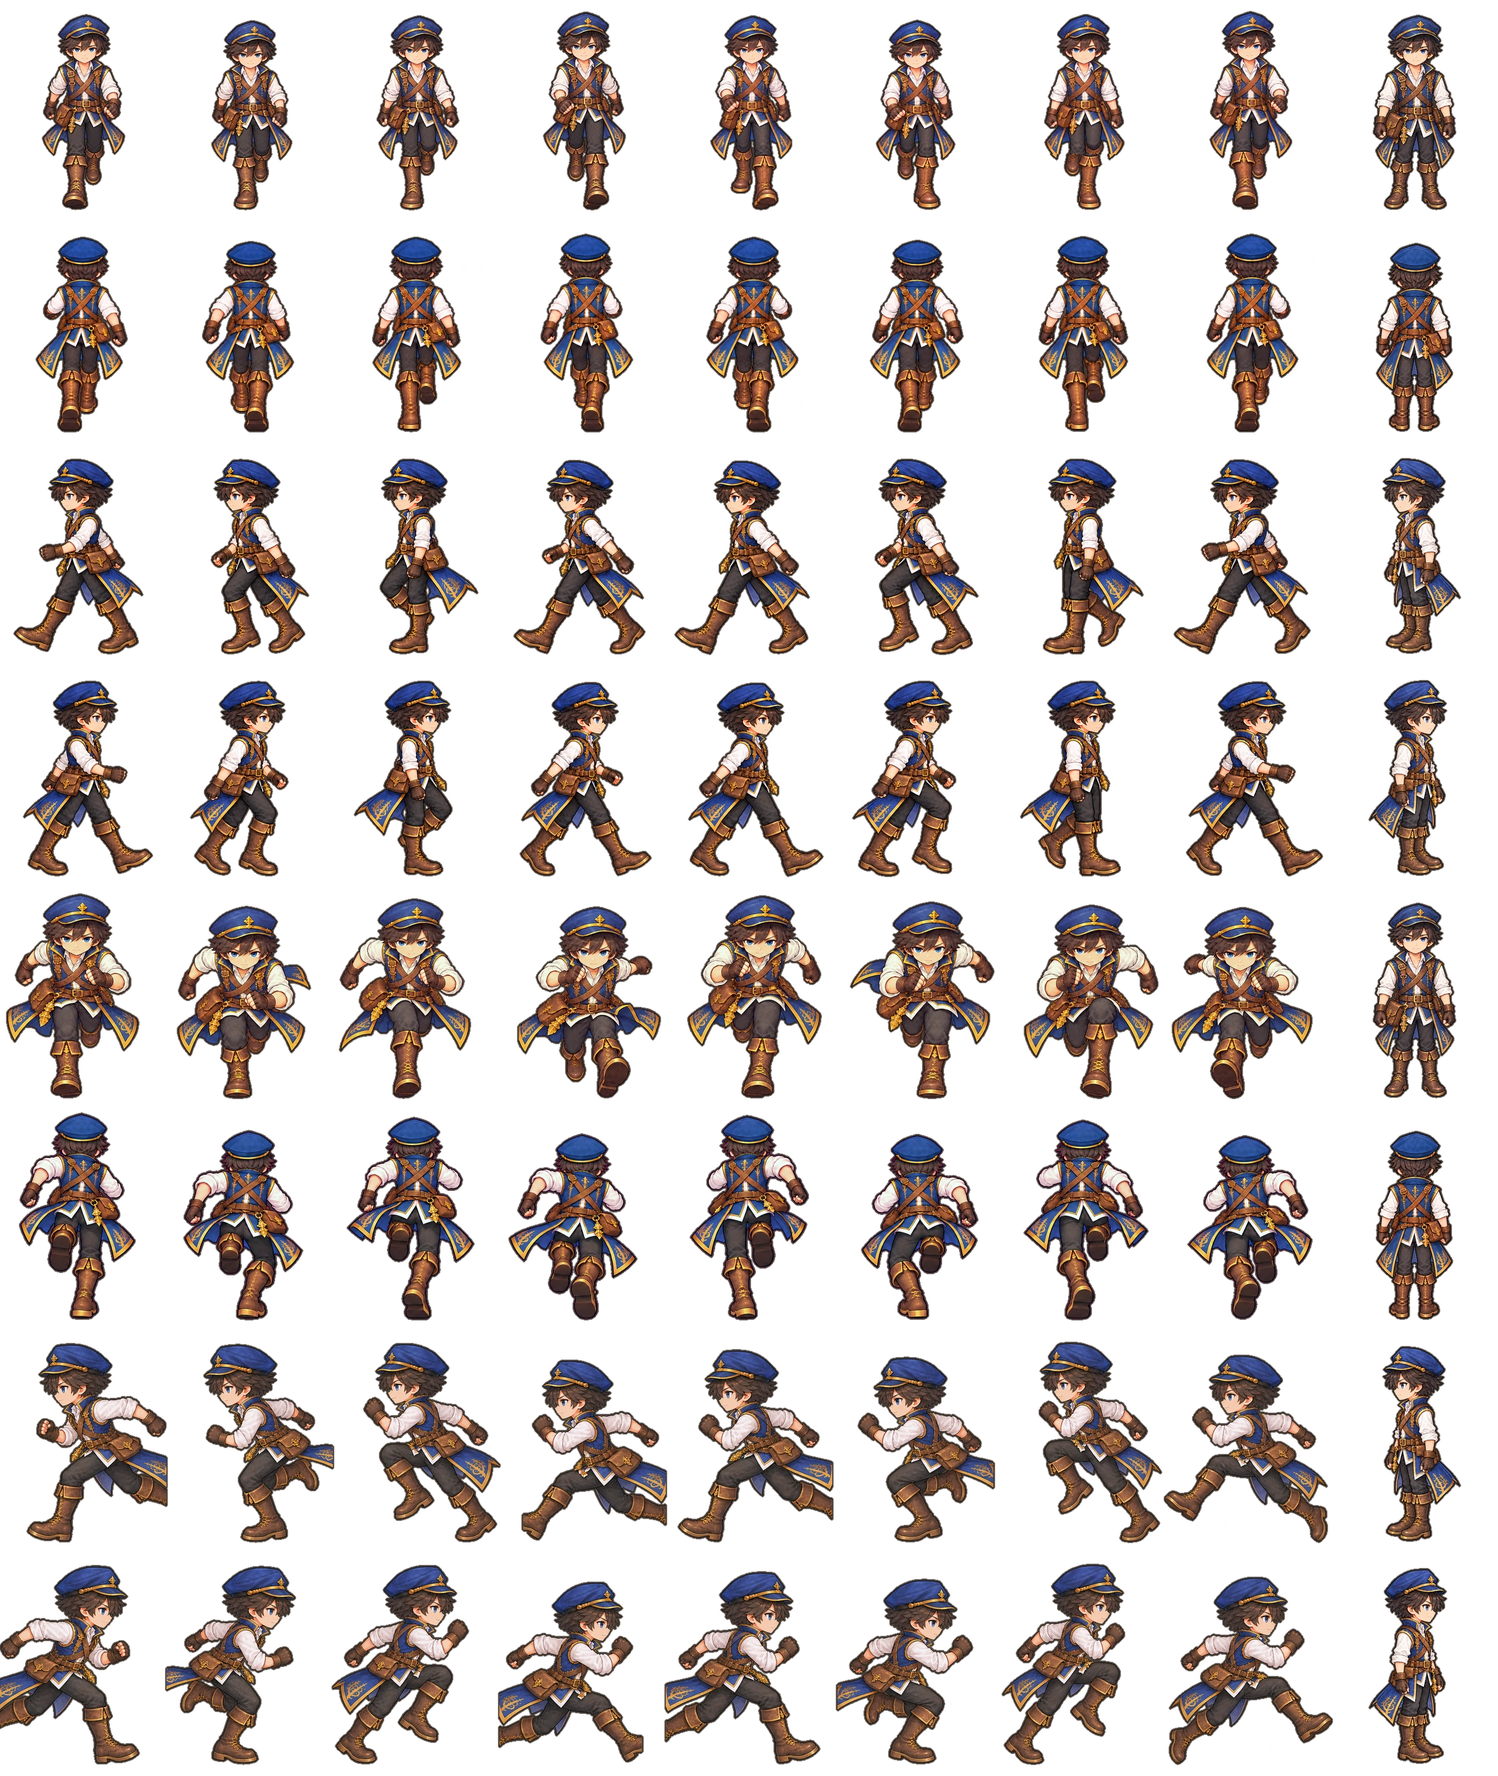
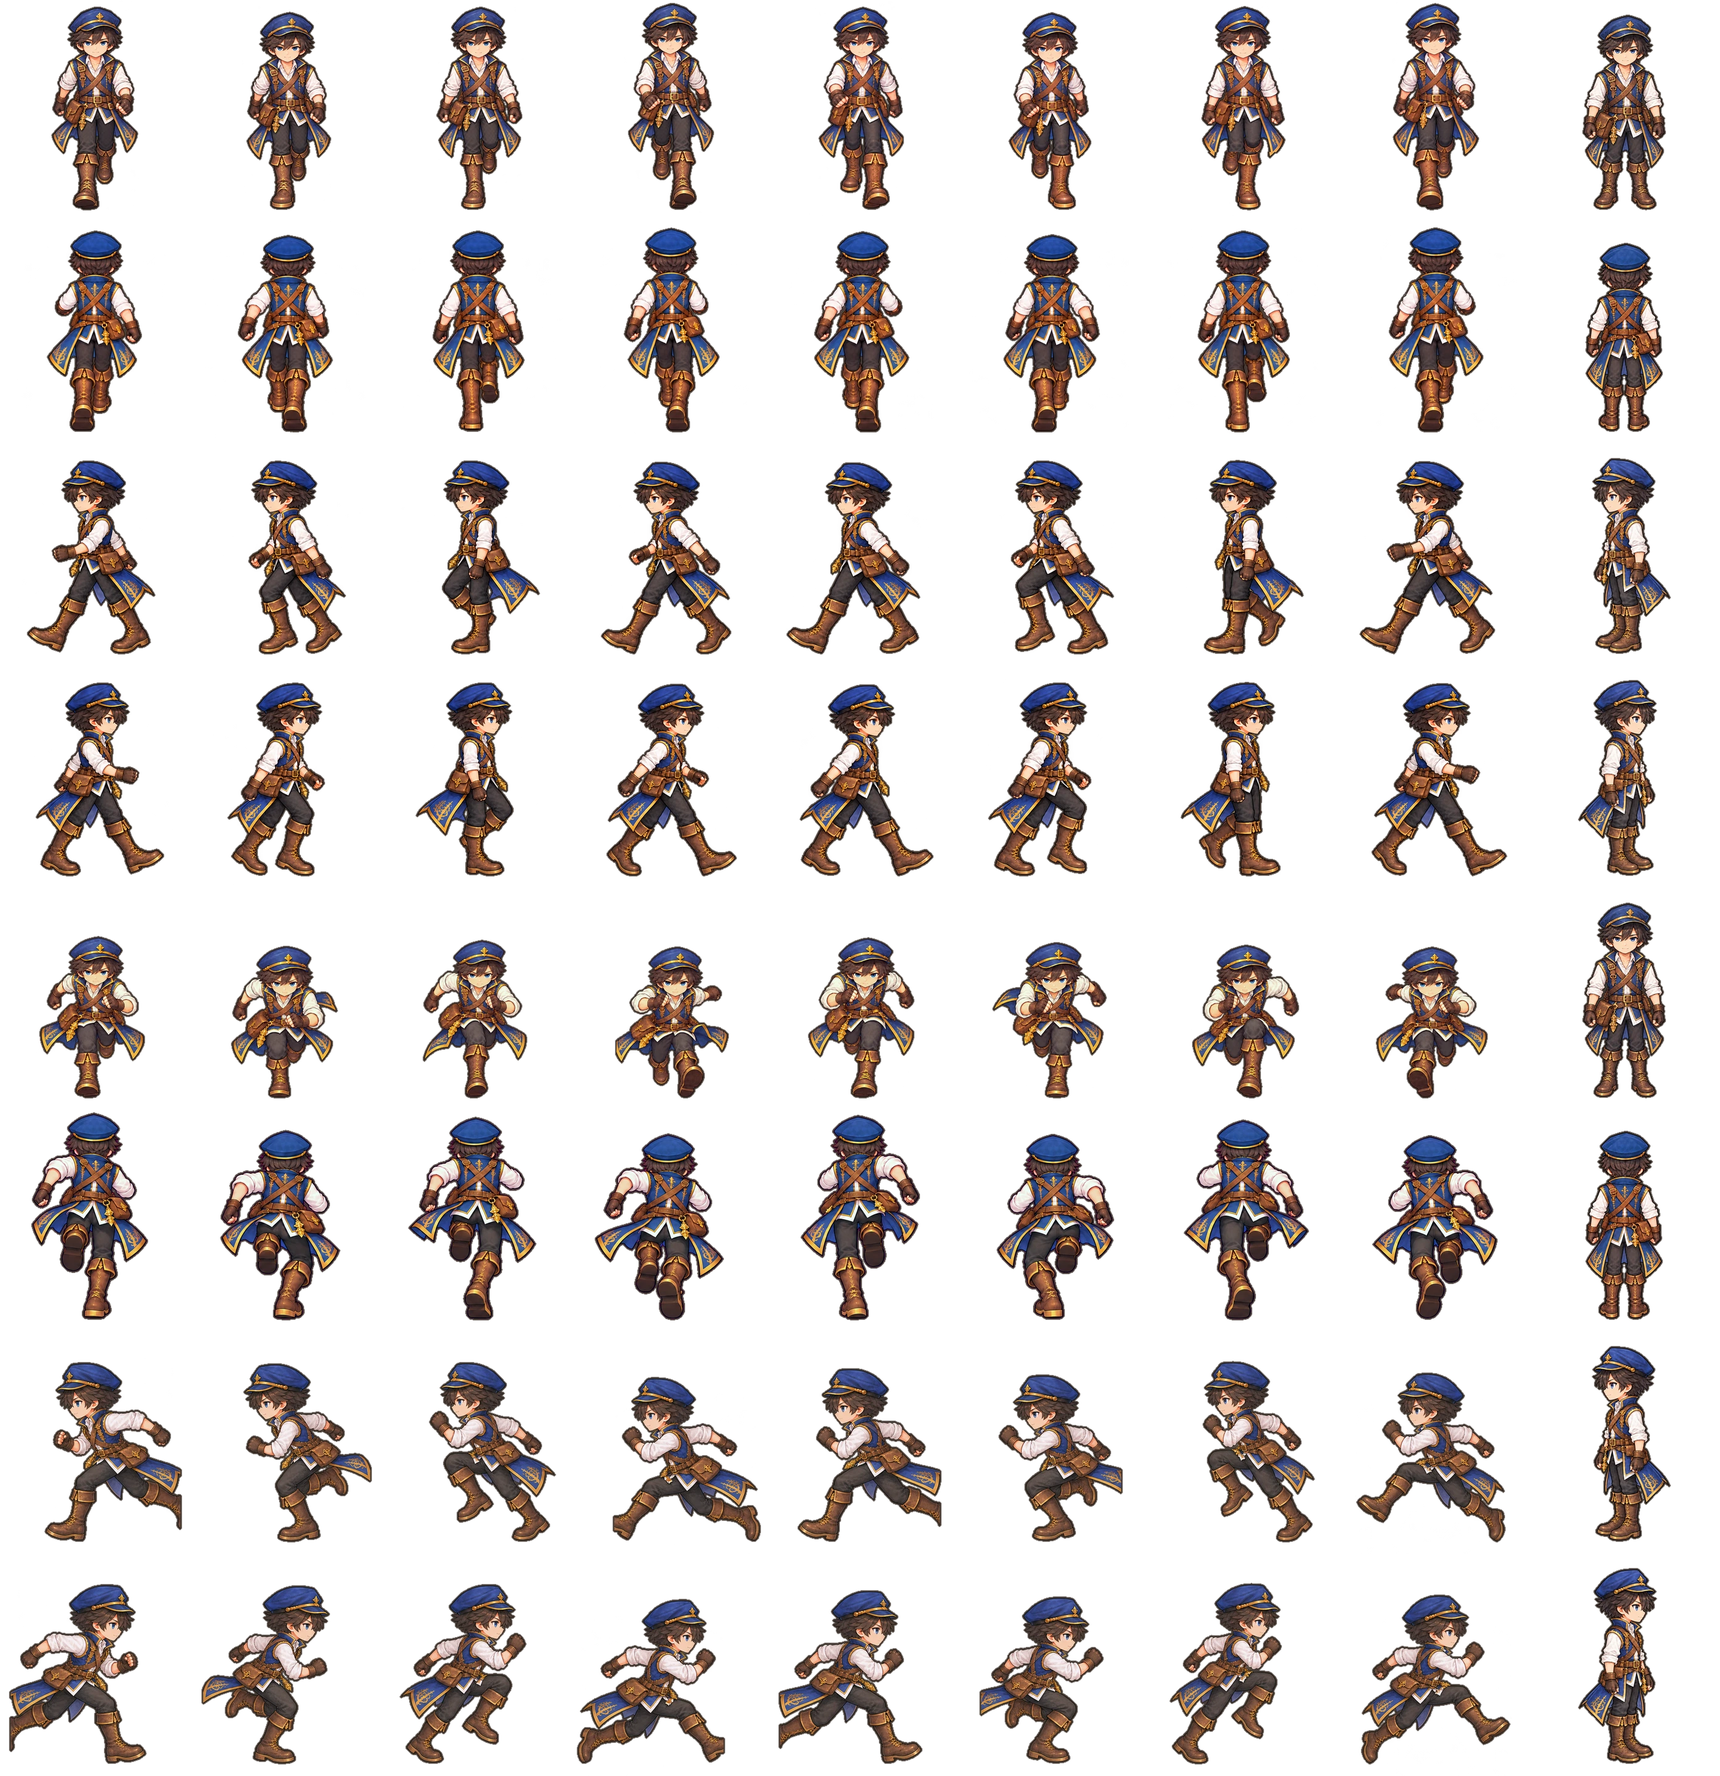
正式名称をミストラルモンスターズ バトルカードに・立ち／歩き／走りの大きさをそろえる・走りの切れの直し
- 名称：ミストラルモンスターズ バトルカード（Mistral Monsters Battle Card・短縮「ミストラルBC」）。本編もミストラルモンスターズ。
  アプリ情報・index.html・manifest・バックアップのファイル名・テスト・CLAUDE.md・README・資料。リポジトリ名・公開URL・セーブのキーは変えない
- 大きさ：シートの各行の頭の大きさを立ち姿にそろえ（adult_walk_build.py --match-heads）、表示倍率 FIGURE_ZOOM 1.35→1.55
  （立ち・歩き・走りがすべて前の走りの大きさ）。ダンジョン 61→70
- 主人公のコマ幅 216→248（--wide 248・PLAYER_FRAME_W）。横向きの走りの髪・腕・ブーツがコマの端で切れて縦線に見えていた

Claude-Session: https://claude.ai/code/session_017pkdgoVCas5KENQnYkuWbn

Changed region(s): [[0.0, 0.0, 0.9877, 1.0], [0.0, 0.0, 0.0926, 0.7188]]

diff --git a/src/ui/screens/worldScreen.ts b/src/ui/screens/worldScreen.ts
@@ -38,6 +38,8 @@ import {
   FOOT_Y,
   FRAME_H,
   FRAME_W,
+  PLAYER_FOOT_X,
+  PLAYER_FRAME_W,
   frameOf,
   FRAMES_PER_STEP,
   framesPerSecond,
@@ -115,9 +117,11 @@ const ART_SCALE = 0.5625;
 const ROOM_ZOOM_MAX = 1.35;
 /**
  * 街・部屋の人物の大きさ（設計図の 144 単位に対する倍率）。2026-10-23 に街に対して小さすぎたので 1.2 倍に（ユーザー承認）。
- * 2026-10-24 ユーザー「立ちと歩きは街に対して小さく見える。走っているサイズ感をメインに」で 1.35 倍に（主人公も人も同じ倍率）
+ * 2026-10-24 ユーザー「立ちと歩きは街に対して小さく見える。走っているサイズ感をメインに」で 1.35 倍に（主人公も人も同じ倍率）。
+ * 2026-10-24（2回目）ユーザー「まだ走ると大きく見える。立ち・歩きも走りの大きさに」：シートの各行の頭の大きさを立ち姿にそろえ
+ * （tools/art/adult_walk_build.py --match-heads。走りの絵は頭が 1.1〜1.27 倍で描かれていた）、全体を走りの大きさ（1.35×約1.15）に
  */
-const FIGURE_ZOOM = 1.35;
+const FIGURE_ZOOM = 1.55;
 /** 主人公だけ横幅を広げる倍率（2026-10-23 ユーザー指示「横幅をもう少し大きく」。比べる画像で 1.1 倍を選んだ） */
 const PLAYER_WIDEN = 1.1;
 /** 部屋の絵が画面の高さのどれくらいを占めるか */
@@ -481,9 +485,9 @@ export class WorldView {
     return this.#map.art ? this.#map.art.cell * this.#scale : TILE;
   }
 
-  /** 人物の絵の高さ（論理px）。街・部屋は設計図の 144 単位の FIGURE_ZOOM 倍、仮マップ（ダンジョン）は小さめ（2026-10-24 に街と同じ割合で 54→61） */
+  /** 人物の絵の高さ（論理px）。街・部屋は設計図の 144 単位の FIGURE_ZOOM 倍、仮マップ（ダンジョン）は小さめ（2026-10-24 に街と同じ割合で 54→61→70） */
   get #figureH(): number {
-    return this.#map.art ? 144 * this.#scale * FIGURE_ZOOM : 61;
+    return this.#map.art ? 144 * this.#scale * FIGURE_ZOOM : 70;
   }
 
   /** マス (x, y) に立つ人の足元（論理px） */
@@ -497,9 +501,10 @@ export class WorldView {
     const k = this.#figureH / (FRAME_H / 2);
     const f = this.#foot(p);
     const wk = el === this.#player ? k * PLAYER_WIDEN : k;
+    const footX = el === this.#player ? PLAYER_FOOT_X : FOOT_X;
     // 体の動き（足元を中心に縮める・傾ける）は transform-origin を足元にして重ねる（#sizeFigure）
     const body = pose ? ` rotate(${pose.deg.toFixed(2)}deg) scale(${pose.sx.toFixed(4)}, ${pose.sy.toFixed(4)})` : '';
-    el.style.transform = `translate(${f.x - (FOOT_X / 2) * wk}px, ${f.y - (FOOT_Y / 2) * k - lift}px)${body}`;
+    el.style.transform = `translate(${f.x - (footX / 2) * wk}px, ${f.y - (FOOT_Y / 2) * k - lift}px)${body}`;
     // 変わったときだけ書く（毎コマ書くと、iPhone で重なり順の計算し直しが重くなる）
     const z = String(10 + Math.round(f.y));
     if (el.style.zIndex !== z) el.style.zIndex = z;
@@ -522,10 +527,12 @@ export class WorldView {
   #sizeFigure(el: HTMLElement): void {
     const k = this.#figureH / (FRAME_H / 2);
     const wk = el === this.#player ? k * PLAYER_WIDEN : k;
-    el.style.width = `${(FRAME_W / 2) * wk}px`;
+    // 主人公のコマは横に広い（PLAYER_FRAME_W。走りの絵が切れないように）
+    const isPlayer = el === this.#player;
+    el.style.width = `${((isPlayer ? PLAYER_FRAME_W : FRAME_W) / 2) * wk}px`;
     el.style.height = `${(FRAME_H / 2) * k}px`;
     // 体の動きの中心は足元（縮めても傾けても足は地面から離れない）
-    el.style.transformOrigin = `${(FOOT_X / 2) * wk}px ${(FOOT_Y / 2) * k}px`;
+    el.style.transformOrigin = `${((isPlayer ? PLAYER_FOOT_X : FOOT_X) / 2) * wk}px ${(FOOT_Y / 2) * k}px`;
   }
 
   /** セーブの現在地のマップを表示する（確認画面では指定の地図・位置） */

diff --git a/src/ui/sound.ts b/src/ui/sound.ts
@@ -115,9 +115,9 @@ type SoundEntry = (
 export const SE_REGISTRY: Readonly<Record<SoundId, SoundEntry>> = {
   // カードを引く・手札に配る（1枚ごと）：効果音ラボ「カードを配る」から1枚ぶんを切り出した音（2026-10-24 ユーザー指示「カードとかトランプのSEに」）
   cardDraw: { mp3: cardDealMp3, gain: 1.4 },
-  // 先攻・後攻のカードを選んだ瞬間：ミスティックモンスターズ正式素材「分かれ道の選択」（15_branch_select）
+  // 先攻・後攻のカードを選んだ瞬間：ミストラルモンスターズ正式素材「分かれ道の選択」（15_branch_select）
   turnOrderSelect: { ogg: turnOrderOgg, m4a: turnOrderM4a, gain: 1.0 },
-  // 山札からマナが増えた（手札5枚のときのドロー・カードの効果）：ミスティックモンスターズの GOLD_GET と同じ音（Mix of SFX by Ivokard「bell」・CC0）
+  // 山札からマナが増えた（手札5枚のときのドロー・カードの効果）：ミストラルモンスターズの GOLD_GET と同じ音（Mix of SFX by Ivokard「bell」・CC0）
   manaGain: { ogg: manaGainOgg, m4a: manaGainM4a, gain: 1.8 },
   // 手札のカードをマナにした（マナ化・1枚につき1回。カードが光って消える瞬間）：効果音ラボ「シャキーン1」（2026-10-24 ユーザーが候補から選んだ。
   // それまでの「カードがマナの欄に行くときの音」mana_convert はやめた）

diff --git a/index.html b/index.html
@@ -7,11 +7,11 @@
       content="width=device-width, initial-scale=1.0, maximum-scale=1.0, user-scalable=no, viewport-fit=cover"
     />
     <meta name="theme-color" content="#1b1530" />
-    <meta name="description" content="セイクリッドモンスターズ バトルカード（開発版）" />
+    <meta name="description" content="ミストラルモンスターズ バトルカード（開発版）" />
     <meta name="apple-mobile-web-app-capable" content="yes" />
     <meta name="mobile-web-app-capable" content="yes" />
-    <meta name="application-name" content="セイクリッドBC" />
-    <meta name="apple-mobile-web-app-title" content="セイクリッドBC" />
+    <meta name="application-name" content="ミストラルBC" />
+    <meta name="apple-mobile-web-app-title" content="ミストラルBC" />
     <meta name="apple-mobile-web-app-status-bar-style" content="black-translucent" />
     <meta name="robots" content="noindex, nofollow" />
     <link rel="icon" type="image/png" sizes="48x48" href="/icons/favicon-48.png" />
@@ -19,7 +19,7 @@
     <link rel="icon" type="image/png" sizes="16x16" href="/icons/favicon-16.png" />
     <link rel="apple-touch-icon" sizes="180x180" href="/icons/apple-touch-icon.png" />
     <link rel="manifest" href="/manifest.webmanifest" />
-    <title>セイクリッドモンスターズ バトルカード</title>
+    <title>ミストラルモンスターズ バトルカード</title>
   </head>
   <body>
     <div id="app"></div>

diff --git a/src/config/app.ts b/src/config/app.ts
@@ -1,11 +1,14 @@
-/** シリーズ・ゲームの正式名称などアプリ全体の基本情報（2026-10-22 正式名称：セイクリッドモンスターズ。旧称ミルティル・ミストリア） */
+/**
+ * シリーズ・ゲームの正式名称などアプリ全体の基本情報。
+ * 2026-10-24 正式名称：ミストラルモンスターズ（ユーザー決定。本編もミストラルモンスターズに）。旧称ミルティル・ミストリア・セイクリッドモンスターズ
+ */
 export const APP_INFO = {
-  seriesName: 'セイクリッドモンスターズ',
-  seriesNameEn: 'Sacred Monsters',
-  gameName: 'セイクリッドモンスターズ バトルカード',
-  gameNameEn: 'Sacred Monsters Battle Card',
-  /** ホーム画面アイコン下などの短い名前（ユーザー指定。勝手に変えない） */
-  shortName: 'セイクリッドBC',
+  seriesName: 'ミストラルモンスターズ',
+  seriesNameEn: 'Mistral Monsters',
+  gameName: 'ミストラルモンスターズ バトルカード',
+  gameNameEn: 'Mistral Monsters Battle Card',
+  /** ホーム画面アイコン下などの短い名前（2026-10-24 正式名称の変更に合わせて「セイクリッドBC」から。勝手に変えない） */
+  shortName: 'ミストラルBC',
   version: '0.4.0',
   /** 現在の開発段階（夜間一括指示 2026-10-22：最小縦断体験） */
   phase: 3,

diff --git a/src/game/save/backup.ts b/src/game/save/backup.ts
@@ -33,7 +33,7 @@ export function createBackup(save: SaveData, settings: GameSettings | undefined,
   return {
     format: BACKUP_FORMAT,
     formatVersion: BACKUP_FORMAT_VERSION,
-    game: 'Sacred Monsters Battle Card',
+    game: 'Mistral Monsters Battle Card',
     exportedAt: now.toISOString(),
     saveVersion: save.version,
     save,
@@ -45,10 +45,10 @@ export function serializeBackup(file: BackupFile): string {
   return JSON.stringify(file, null, 2);
 }
 
-/** 保存するファイル名（例：sacred-monsters-bc-backup-20261022-0930.json） */
+/** 保存するファイル名（例：mistral-monsters-bc-backup-20261022-0930.json。2026-10-24 の名称変更で sacred- から。中身の形は同じ） */
 export function backupFileName(now: Date = new Date()): string {
   const p = (n: number): string => String(n).padStart(2, '0');
-  return `sacred-monsters-bc-backup-${now.getFullYear()}${p(now.getMonth() + 1)}${p(now.getDate())}-${p(now.getHours())}${p(now.getMinutes())}.json`;
+  return `mistral-monsters-bc-backup-${now.getFullYear()}${p(now.getMonth() + 1)}${p(now.getDate())}-${p(now.getHours())}${p(now.getMinutes())}.json`;
 }
 
 /** 復元の確認画面に出す内容 */

diff --git a/tests/app.test.ts b/tests/app.test.ts
@@ -3,11 +3,11 @@ import { APP_INFO, DESIGN_RESOLUTION } from '../src/config/app.ts';
 
 describe('APP_INFO', () => {
   it('正式名称が設定されている', () => {
-    expect(APP_INFO.seriesName).toBe('セイクリッドモンスターズ');
-    expect(APP_INFO.seriesNameEn).toBe('Sacred Monsters');
-    expect(APP_INFO.gameName).toBe('セイクリッドモンスターズ バトルカード');
-    expect(APP_INFO.gameNameEn).toBe('Sacred Monsters Battle Card');
-    expect(APP_INFO.shortName).toBe('セイクリッドBC');
+    expect(APP_INFO.seriesName).toBe('ミストラルモンスターズ');
+    expect(APP_INFO.seriesNameEn).toBe('Mistral Monsters');
+    expect(APP_INFO.gameName).toBe('ミストラルモンスターズ バトルカード');
+    expect(APP_INFO.gameNameEn).toBe('Mistral Monsters Battle Card');
+    expect(APP_INFO.shortName).toBe('ミストラルBC');
   });
 
   it('夜間一括指示の段階である', () => {

diff --git a/tests/compat.test.ts b/tests/compat.test.ts
@@ -145,14 +145,14 @@ describe('アプリ名・PWA・配信先（正式名称）', () => {
 
   it('manifest は正式名称・短縮名・正式アイコン', () => {
     expect(manifest.name).toBe(APP_INFO.gameName);
-    expect(manifest.short_name).toBe('セイクリッドBC');
+    expect(manifest.short_name).toBe('ミストラルBC');
     expect(manifest.start_url).toBe('./');
     expect(manifest.icons.map((i: { src: string }) => i.src)).toEqual(['icons/icon-192.png', 'icons/icon-512.png']);
   });
 
   it('index.html の題名・ホーム画面名・アイコン', () => {
     expect(html).toContain(`<title>${APP_INFO.gameName}</title>`);
-    expect(html).toContain('content="セイクリッドBC"');
+    expect(html).toContain('content="ミストラルBC"');
     expect(html).toContain('href="/icons/apple-touch-icon.png"');
     expect(html).toContain('href="/icons/favicon-32.png"');
   });

diff --git a/src/ui/bgm.ts b/src/ui/bgm.ts
@@ -8,7 +8,7 @@ import bossBattleMp3 from '@assets/audio/bgm/bgm_boss_battle.mp3';
 import { sound } from './sound.ts';
 
 /**
- * BGM。曲はミスティックモンスターズで使っている曲（ユーザー指示 2026-10-22。規約はユーザー確認済み。出どころは docs/audio-credits.md）。
+ * BGM。曲はミストラルモンスターズで使っている曲（ユーザー指示 2026-10-22。規約はユーザー確認済み。出どころは docs/audio-credits.md）。
  *
  * - ファイルは「ループする範囲だけを切り出し、終わりを頭へつないだ」MP3（tools/audio/make_bgm_loops.py）。audio の loop で繰り返す
  * - 音量は Web Audio のゲイン（iPhone は audio の volume を変えられないため）。効果音と同じ AudioContext を使う

diff --git a/src/game/world/walkAnim.ts b/src/game/world/walkAnim.ts
@@ -48,6 +48,12 @@ export const FRAME_W = 216;
 export const FRAME_H = 288;
 export const FOOT_X = 108;
 export const FOOT_Y = 270;
+/**
+ * 主人公のコマの幅と足元の x（2026-10-24 に 216→248。横向きの走りの髪・腕・ブーツがコマの端で切れて縦の線に見えたため。
+ * ゲームのシートは 1.25 倍の 310×360・足元 (155, 338)。人（NPC）のシートは 216 のまま）
+ */
+export const PLAYER_FRAME_W = 248;
+export const PLAYER_FOOT_X = 124;
 export const PLAYER_SHEET_COLS = 9;
 /**
  * 行：歩き4行（正面・背中・左・右）＋走り4行（同じ順）＝8行。

diff --git a/src/ui/components/dialogue.ts b/src/ui/components/dialogue.ts
@@ -22,7 +22,7 @@ import type { MessageKey } from '../../i18n/messages/index.ts';
 import { button, h } from '../dom.ts';
 
 /**
- * 会話（文字送り・選択肢・スキップ）。見た目はミスティックモンスターズの会話 UI の画像
+ * 会話（文字送り・選択肢・スキップ）。見た目はミストラルモンスターズの会話 UI の画像
  * （セリフ枠・名前の札・選択肢のボタン。assets/images/ui/talk/）を使う。
  *
  * - 画面のどこをタップしても次へ（文字を出している途中なら、まず全部出す）

diff --git a/tests/backup.test.ts b/tests/backup.test.ts
@@ -45,7 +45,7 @@ describe('セーブのバックアップ（書き出し）', () => {
   });
 
   it('ファイル名に日時が入る', () => {
-    expect(backupFileName(new Date(2026, 9, 22, 9, 5))).toBe('sacred-monsters-bc-backup-20261022-0905.json');
+    expect(backupFileName(new Date(2026, 9, 22, 9, 5))).toBe('mistral-monsters-bc-backup-20261022-0905.json');
   });
 
   it('書き出し → 読み込みで同じ状態に戻る', () => {

diff --git a/tests/i18n.test.ts b/tests/i18n.test.ts
@@ -93,7 +93,7 @@ describe('t() と言語の切り替え', () => {
 
   it('ゲーム名は言語で変わる（正式名称）', () => {
     expect(localizedGameName('ja')).toBe(APP_INFO.gameName);
-    expect(localizedGameName('en')).toBe('Sacred Monsters Battle Card');
+    expect(localizedGameName('en')).toBe('Mistral Monsters Battle Card');
   });
 });
 
